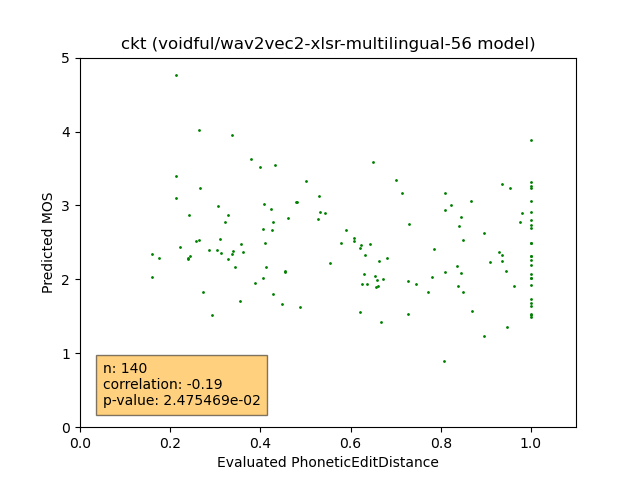
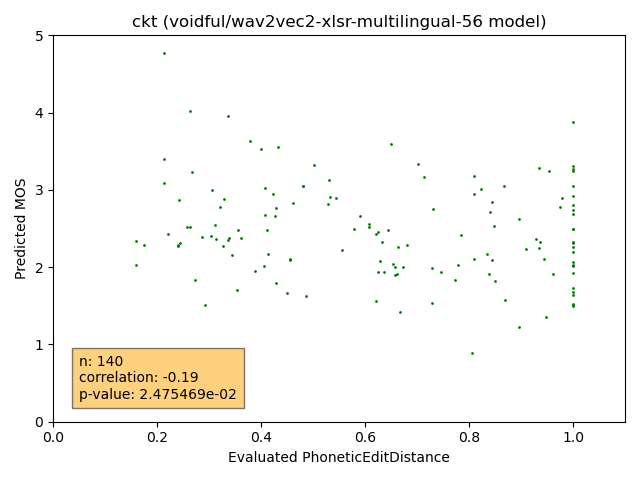
combined mos plot

diff --git a/DataQuality.py b/DataQuality.py
@@ -128,6 +128,7 @@ class Evaluator():
         plt.title(f"{model_name} model")
         plt.xlabel("PhoneticEditDistance")
         plt.ylabel("n")
+        plt.tight_layout()
         plt.savefig(model_dir.joinpath('img/hist.png'))
         plt.close()
 
@@ -161,6 +162,7 @@ class Evaluator():
             stat_by_lang['all_langs'][1]
         )
         ax_all.text(0.05, 0.3, text, bbox={"facecolor":"orange", "alpha":0.5, "pad":5})
+        plt.tight_layout()
         ax_all.figure.savefig(Path(img_dir).joinpath('all_langs.png'))
         ax_all.clear()
 
@@ -180,6 +182,7 @@ class Evaluator():
             ax.text(0.05, 0.3, text, bbox={"facecolor":"orange", "alpha":0.5, "pad":5})
             ax.set_xlim((0., 1.1))
             ax.set_ylim((0., 5.))
+            plt.tight_layout()
             ax.figure.savefig(Path(img_dir).joinpath(f'{lang}.png'))
             ax.clear()
 
@@ -193,8 +196,26 @@ class Evaluator():
             plt.title(title.format(lang=lang))
             plt.xlabel("Predicted MOS")
             plt.ylabel("n")
+            plt.tight_layout()
             plt.savefig(img_dir.joinpath(f'{lang}_hist.png'))
             plt.close()
+
+    @classmethod
+    def combined_mos_hist_by_lang(cls, csv_file, lang_col="lang", mos_col="mos_pred", img_dir="", title="{lang}", bins_count=50):
+        data = cls.load_by_lang(csv_file, lang_col, mos_col)
+        img_dir = Path(img_dir)
+        
+        # assuming we have 3 languages and 1 'all_langs' so 4 in total
+        fig, axes = plt.subplots(2, 2)
+
+        for i, lang in enumerate(data.keys()):
+            axes[i % 2, i // 2].hist(data[lang]['mos'], bins=bins_count)
+            axes[i % 2, i // 2].set_title(title.format(lang=lang))
+            axes[i % 2, i // 2].set_xlim((0, 5))
+        fig.suptitle("MOS distribution by lang")
+        plt.tight_layout()
+
+        plt.savefig(img_dir.joinpath(f'combined_hist.png'))
 
     @classmethod
     def analyse_track_asr(cls, track_path, predicted_text, original_text):
@@ -234,13 +255,11 @@ def test_model(model):
         title=f'{model} model'
     )
 
-Evaluator.eval_quality_from_csv(
-    csv_file='refs/asr/recognized.csv',
-    path_col='new_path',
-    save_to='mos_eval/evaluated_mos.csv'
-)
+if __name__ == "__main__":
+    test_model('voidful/wav2vec2-xlsr-multilingual-56')
 
-Evaluator.hist_mos_by_lang(
+""" Evaluator.combined_mos_hist_by_lang(
     'mos_eval/evaluated_mos.csv',
     img_dir='mos_eval/img'
 )
+ """
